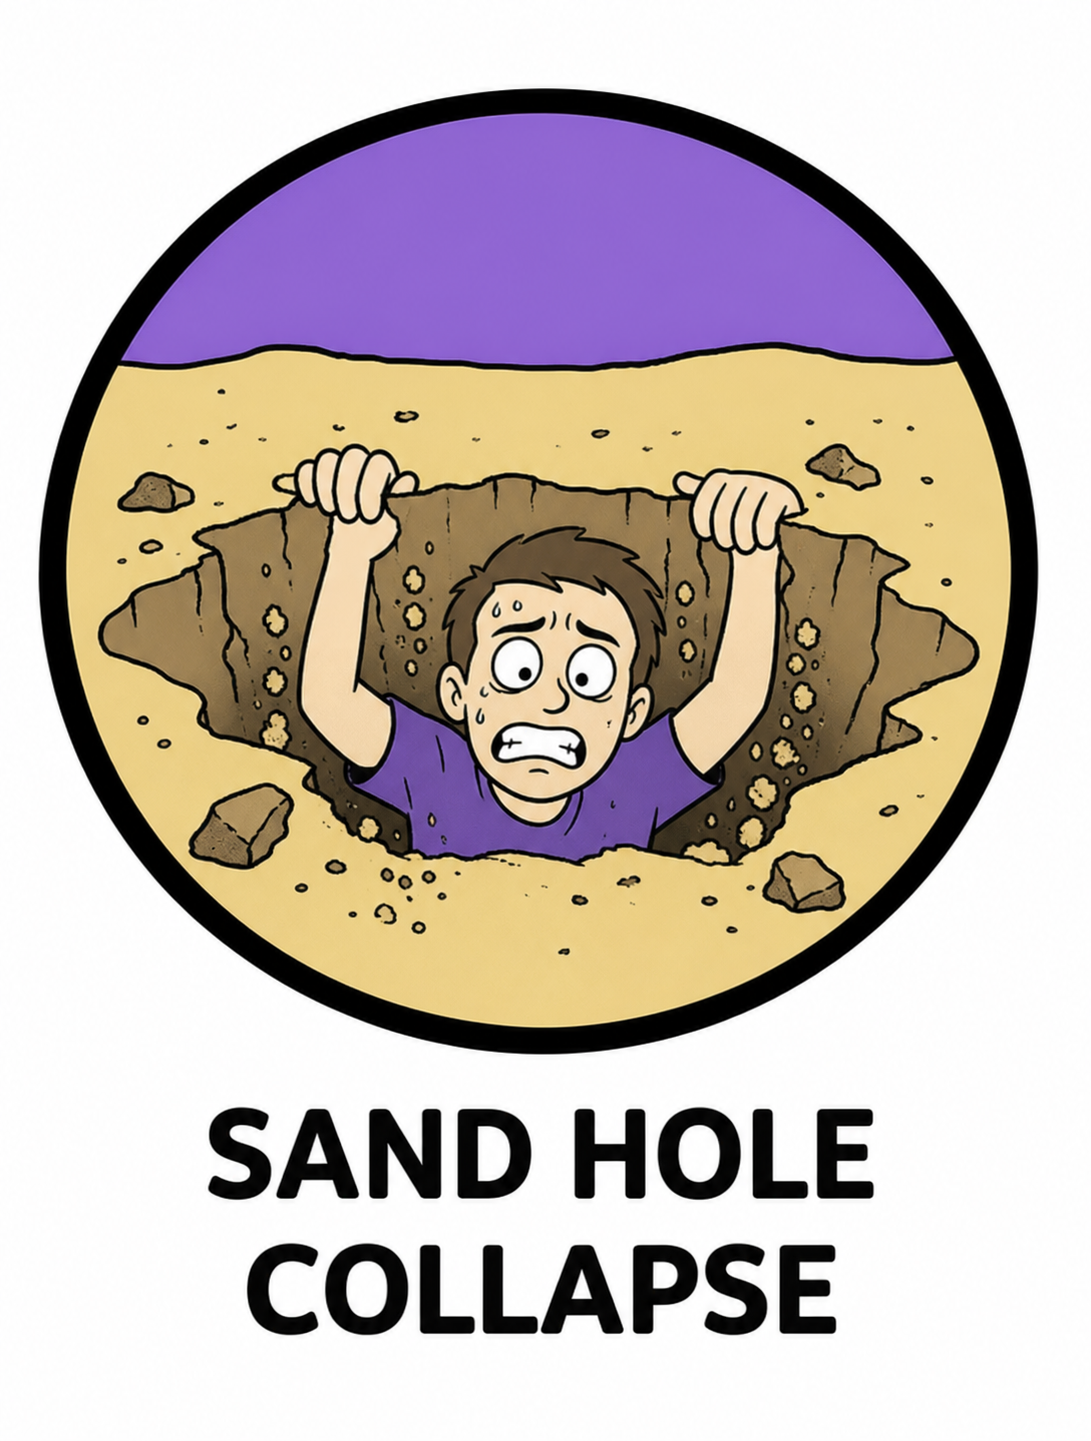
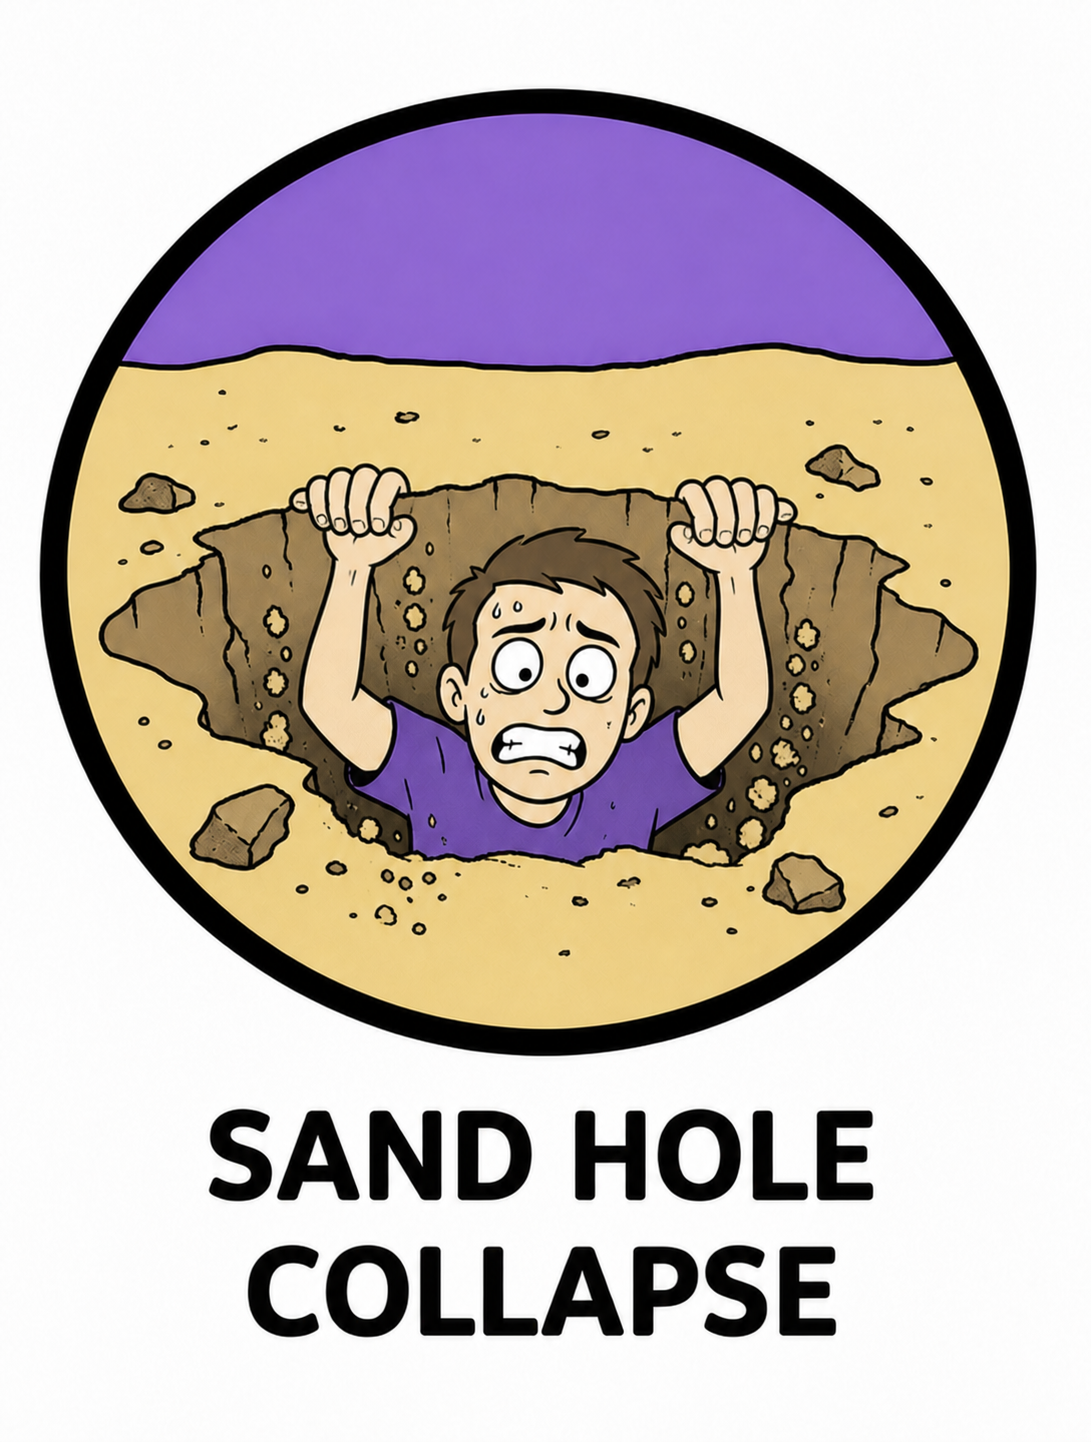
Remove face covers and correct sand grip

diff --git a/src/components/HazardVisual.tsx b/src/components/HazardVisual.tsx
@@ -1,6 +1,6 @@
 "use client";
 
-import { useState, type CSSProperties } from "react";
+import { useState } from "react";
 import type { HazardSceneType } from "../data/hazards";
 
 export type { HazardSceneType } from "../data/hazards";
@@ -48,42 +48,6 @@ const sceneActiveImages: Record<HazardSceneType, string> = {
   "unexpected-surge": "/hazard-panels-active/sneaker-wave-active.png",
 };
 
-type FaceTrack = "primary" | "secondary";
-
-interface FaceMask {
-  x: number;
-  y: number;
-  size: number;
-  track: FaceTrack;
-}
-
-const sceneFaceMasks: Record<HazardSceneType, readonly FaceMask[]> = {
-  "sand-collapse": [{ x: 49, y: 63, size: 18, track: "primary" }],
-  "offshore-current": [{ x: 69, y: 47, size: 11, track: "primary" }],
-  "bluff-fall": [{ x: 76, y: 65, size: 11, track: "secondary" }],
-  "evacuation-wave": [
-    { x: 51, y: 71, size: 9, track: "secondary" },
-    { x: 64, y: 65, size: 7, track: "secondary" },
-    { x: 76, y: 57, size: 6, track: "secondary" },
-    { x: 78, y: 73, size: 9, track: "secondary" },
-  ],
-  "coastal-storm": [],
-  "windborne-object": [{ x: 78, y: 43, size: 13, track: "secondary" }],
-  "structural-failure": [{ x: 24, y: 25, size: 8, track: "primary" }],
-  "tow-system": [{ x: 53, y: 57, size: 11, track: "primary" }],
-  "unexpected-surge": [
-    { x: 22, y: 66, size: 10, track: "secondary" },
-    { x: 61, y: 66, size: 10, track: "secondary" },
-    { x: 88, y: 55, size: 9, track: "secondary" },
-  ],
-};
-
-type FaceMaskStyle = CSSProperties & {
-  "--face-x": string;
-  "--face-y": string;
-  "--face-size": string;
-};
-
 function SceneImage({ className, sceneType }: { className: string; sceneType: HazardSceneType }) {
   return (
     // Native img keeps the retouched raster artwork untouched by an image optimizer.
@@ -110,28 +74,6 @@ function PanelContents({ sceneType }: { sceneType: HazardSceneType }) {
         <span className="hazard-panel__kinetic hazard-panel__kinetic--secondary" aria-hidden="true">
           <SceneImage className="hazard-panel__image hazard-panel__image--slice" sceneType={sceneType} />
         </span>
-        {sceneFaceMasks[sceneType].flatMap((face, index) => {
-          const style: FaceMaskStyle = {
-            "--face-x": `${face.x}%`,
-            "--face-y": `${face.y}%`,
-            "--face-size": `${face.size}%`,
-          };
-
-          return [
-            <span
-              className="hazard-panel__face-blur hazard-panel__face-blur--static"
-              key={`${sceneType}-${index}-static`}
-              style={style}
-              aria-hidden="true"
-            />,
-            <span
-              className={`hazard-panel__face-blur hazard-panel__face-blur--tracked hazard-panel__face-blur--${face.track}`}
-              key={`${sceneType}-${index}-tracked`}
-              style={style}
-              aria-hidden="true"
-            />,
-          ];
-        })}
       </span>
       <span className="hazard-visual__rim" aria-hidden="true" />
     </>

diff --git a/app/globals.css b/app/globals.css
@@ -1762,26 +1762,6 @@ body::before { background: #000; }
 .hazard-visual--unexpected-surge .hazard-panel__kinetic--primary { clip-path: ellipse(57% 47% at 31% 39%); }
 .hazard-visual--unexpected-surge .hazard-panel__kinetic--secondary { clip-path: polygon(7% 45%, 100% 42%, 100% 93%, 4% 96%); }
 
-.hazard-panel__face-blur {
-  position: absolute;
-  z-index: 5;
-  left: var(--face-x);
-  top: var(--face-y);
-  display: block;
-  width: var(--face-size);
-  aspect-ratio: 1;
-  border: 1px solid rgba(255,255,255,.22);
-  border-radius: 50%;
-  background: rgba(174,174,174,.3);
-  box-shadow: 0 0 5px rgba(0,0,0,.3);
-  backdrop-filter: blur(14px) saturate(.2);
-  -webkit-backdrop-filter: blur(14px) saturate(.2);
-  translate: -50% -50%;
-  pointer-events: none;
-  will-change: transform;
-}
-.hazard-panel__face-blur--tracked { opacity: 0; }
-.hazard-visual.is-active .hazard-panel__face-blur--tracked { opacity: 1; }
 .hazard-chapter__visual .hazard-visual__rim {
   position: absolute;
   z-index: 8;
@@ -1803,23 +1783,23 @@ body::before { background: #000; }
 .hazard-visual--tow-system.is-active .hazard-panel__image--scene { animation: parasailSceneMove 1s ease-in-out infinite alternate; }
 .hazard-visual--unexpected-surge.is-active .hazard-panel__image--scene { animation: surgeSceneMove .82s ease-in-out infinite alternate; }
 
-.hazard-visual--sand-collapse.is-active :is(.hazard-panel__kinetic--primary, .hazard-panel__face-blur--primary) { animation: personClimb .72s ease-in-out infinite alternate; }
+.hazard-visual--sand-collapse.is-active .hazard-panel__kinetic--primary { animation: personClimb .72s ease-in-out infinite alternate; }
 .hazard-visual--sand-collapse.is-active .hazard-panel__kinetic--secondary { animation: sandRimShift .72s ease-in-out infinite alternate; }
-.hazard-visual--offshore-current.is-active :is(.hazard-panel__kinetic--primary, .hazard-panel__face-blur--primary) { animation: swimmerStroke .8s ease-in-out infinite alternate; }
+.hazard-visual--offshore-current.is-active .hazard-panel__kinetic--primary { animation: swimmerStroke .8s ease-in-out infinite alternate; }
 .hazard-visual--offshore-current.is-active .hazard-panel__kinetic--secondary { animation: currentChannelPull 1.1s ease-in-out infinite alternate; }
 .hazard-visual--bluff-fall.is-active .hazard-panel__kinetic--primary { animation: boulderDrop .62s cubic-bezier(.45,0,.8,.75) infinite alternate; }
-.hazard-visual--bluff-fall.is-active :is(.hazard-panel__kinetic--secondary, .hazard-panel__face-blur--secondary) { animation: personFlee .62s ease-in-out infinite alternate; }
+.hazard-visual--bluff-fall.is-active .hazard-panel__kinetic--secondary { animation: personFlee .62s ease-in-out infinite alternate; }
 .hazard-visual--evacuation-wave.is-active .hazard-panel__kinetic--primary,
 .hazard-visual--unexpected-surge.is-active .hazard-panel__kinetic--primary { animation: wavePush .82s ease-in-out infinite alternate; }
-.hazard-visual--evacuation-wave.is-active :is(.hazard-panel__kinetic--secondary, .hazard-panel__face-blur--secondary),
-.hazard-visual--unexpected-surge.is-active :is(.hazard-panel__kinetic--secondary, .hazard-panel__face-blur--secondary) { animation: crowdRun .7s ease-in-out infinite alternate; }
+.hazard-visual--evacuation-wave.is-active .hazard-panel__kinetic--secondary,
+.hazard-visual--unexpected-surge.is-active .hazard-panel__kinetic--secondary { animation: crowdRun .7s ease-in-out infinite alternate; }
 .hazard-visual--coastal-storm.is-active .hazard-panel__kinetic--primary { animation: lightningImpact .42s steps(2) infinite; }
 .hazard-visual--coastal-storm.is-active .hazard-panel__kinetic--secondary { animation: towerJolt .28s ease-in-out infinite alternate; }
 .hazard-visual--windborne-object.is-active .hazard-panel__kinetic--primary { animation: umbrellaFlip .72s ease-in-out infinite alternate; }
-.hazard-visual--windborne-object.is-active :is(.hazard-panel__kinetic--secondary, .hazard-panel__face-blur--secondary) { animation: personDodge .72s ease-in-out infinite alternate; }
-.hazard-visual--structural-failure.is-active :is(.hazard-panel__kinetic--primary, .hazard-panel__face-blur--primary) { animation: pierLeap .72s ease-in-out infinite alternate; }
+.hazard-visual--windborne-object.is-active .hazard-panel__kinetic--secondary { animation: personDodge .72s ease-in-out infinite alternate; }
+.hazard-visual--structural-failure.is-active .hazard-panel__kinetic--primary { animation: pierLeap .72s ease-in-out infinite alternate; }
 .hazard-visual--structural-failure.is-active .hazard-panel__kinetic--secondary { animation: pierDrop .62s ease-in infinite alternate; }
-.hazard-visual--tow-system.is-active :is(.hazard-panel__kinetic--primary, .hazard-panel__face-blur--primary) { animation: parasailerSwing .9s ease-in-out infinite alternate; }
+.hazard-visual--tow-system.is-active .hazard-panel__kinetic--primary { animation: parasailerSwing .9s ease-in-out infinite alternate; }
 .hazard-visual--tow-system.is-active .hazard-panel__kinetic--secondary { animation: canopySwing .9s ease-in-out infinite alternate; }
 
 @keyframes sandSceneMove { to { transform: translateY(2px) scale(1.008); } }
@@ -1987,6 +1967,5 @@ body::before { background: #000; }
 @media (prefers-reduced-motion: reduce) {
   .scroll-cue svg { animation: none; }
   .hazard-visual.is-active .hazard-panel__image--scene,
-  .hazard-visual.is-active .hazard-panel__kinetic,
-  .hazard-visual.is-active .hazard-panel__face-blur--tracked { animation: none; }
+  .hazard-visual.is-active .hazard-panel__kinetic { animation: none; }
 }